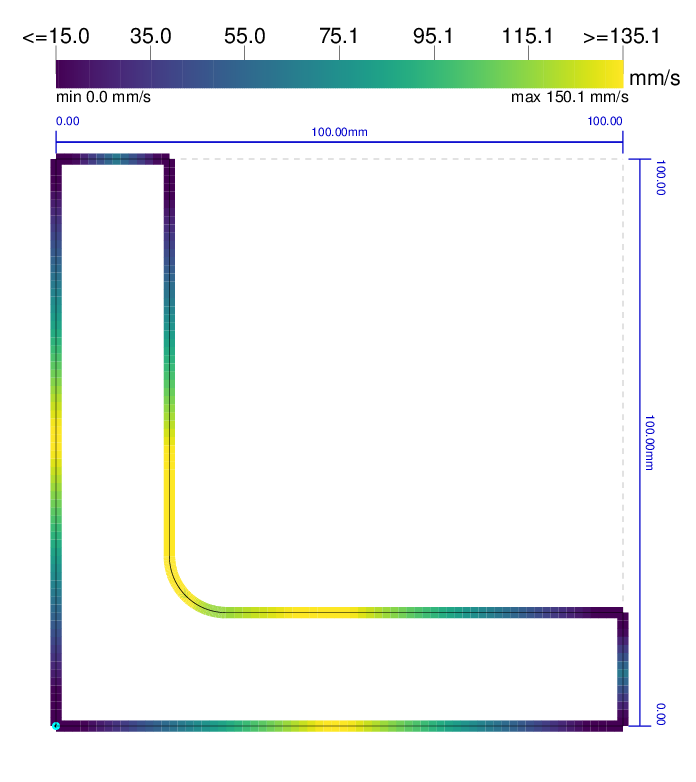
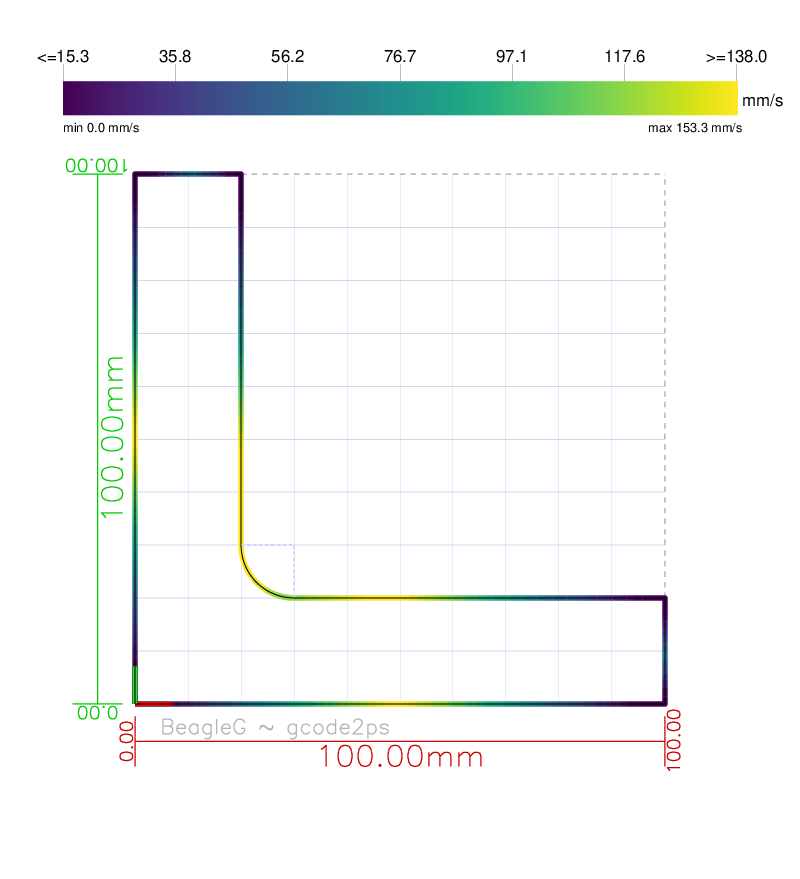
Add an option to show a grid in gcode2ps

diff --git a/src/gcode2ps.cc b/src/gcode2ps.cc
@@ -88,6 +88,7 @@ static constexpr char kGcodeMoveColor[] = "0 0 0";
 static constexpr char kGcodeRapidMoveColor[] = "0.7 0.7 0.7";
 static constexpr char kGcodeOriginMarkColor[] = "0.5 0.5 0.8";
 static constexpr char kGcodeOriginTextColor[] = "0 0 0";
+static constexpr char kGcodeGridColor[] = "0.7 0.7 0.9";
 
 // Machine movement rendering.
 static constexpr char kOutOfRangeColor[] = "1 0.5 0.5";
@@ -373,6 +374,26 @@ public:
     }
 
     fprintf(file_, "%s", kPSHeader);
+  }
+
+  static float start_grid(float min_value, float grid) {
+    const float offset = fmod(min_value, grid);
+    const float start = min_value - offset;
+    return start < min_value ? start + grid : start;
+  }
+
+  void DrawGrid(float d) {
+    fprintf(file_, "\n%% -- Grid\n");
+    fprintf(file_, "%s setrgbcolor 0 setlinewidth\n", kGcodeGridColor);
+    for (float x = start_grid(min_[AXIS_X], d) ; x < max_[AXIS_X]; x += d) {
+      fprintf(file_, "%.3f %.3f %.3f moveto3d %.3f %.3f %.3f lineto3d\n",
+              x, min_[AXIS_Y], min_[AXIS_Z], x, max_[AXIS_Y], min_[AXIS_Z]);
+    }
+    for (float y = start_grid(min_[AXIS_Y], d) ; y < max_[AXIS_Y]; y += d) {
+      fprintf(file_, "%.3f %.3f %.3f moveto3d %.3f %.3f %.3f lineto3d\n",
+              min_[AXIS_X], y, min_[AXIS_Z], max_[AXIS_X], y, min_[AXIS_Z]);
+    }
+    fprintf(file_, "stroke %% end grid\n");
   }
 
   void PrintModelFrame() {
@@ -904,6 +925,7 @@ static int usage(const char *progname, bool description = false) {
           "\t-e<distance>      : Eye distance in mm to show perspective.\n"
           "\t-a<frames>        : animation: create these number of frames "
           "showing rotation around vertical.\n"
+          "\t-g<grid>          : Show grid on XY plane. Optional with 'in' unit suffix (default: mm).\n"
           "[---- Rotation. Multiple can be applied in sequence ----]\n"
           "\t-R<roll>          : Roll: Rotate around axis pointing towards and through canvas\n"
           "\t-P<roll>          : Pitch: Rotate around horizontal axis.\n"
@@ -1009,9 +1031,10 @@ int main(int argc, char *argv[]) {
   float eye_distance = -1;
   int animation_frames = -1;
   bool quiet = false;
+  float grid = -1;
 
   int opt;
-  while ((opt = getopt(argc, argv, "o:c:T:DMt:srS:iR:P:Y:V:e:a:w:q")) != -1) {
+  while ((opt = getopt(argc, argv, "o:c:T:DMt:srS:iR:P:Y:V:e:a:w:qg:")) != -1) {
     switch (opt) {
     case 'o':
       out_filename = optarg;
@@ -1022,6 +1045,10 @@ int main(int argc, char *argv[]) {
       break;
     case 't':
       threshold_angle = (float)atof(optarg);
+      break;
+    case 'g':
+      grid = (float)atof(optarg);
+      if (strstr(optarg, "in") != nullptr) grid *= 25.4;
       break;
     case 'c':
       config_file = strdup(optarg);
@@ -1154,6 +1181,7 @@ int main(int argc, char *argv[]) {
   }
 
   gcode_printer.PrintModelFrame();
+  if (grid > 0) gcode_printer.DrawGrid(grid);
   if (show_dimensions) gcode_printer.ShowMesaureLines();
 
   if (config_file && show_machine_path) {

diff --git a/Development.md b/Development.md
@@ -76,6 +76,7 @@ Options:
         -c <config>       : BeagleG machine config.
         -T <tool-diameter>: Tool diameter in mm.
         -t <threshold-angle> : Threshold angle for accleration opt.
+        -q                : Quiet.
         -s                : Visualize movement speeds.
         -D                : Don't show dimensions.
         -M                : Don't show machine path, only GCode path.
@@ -84,6 +85,7 @@ Options:
         -w<width>         : Width in point (no unit) or mm (if appended)
         -e<distance>      : Eye distance in mm to show perspective.
         -a<frames>        : animation: create these number of frames showing rotation around vertical.
+        -g<grid>          : Show grid on XY plane. Optional with 'in' unit suffix (default: mm).
 [---- Rotation. Multiple can be applied in sequence ----]
         -R<roll>          : Roll: Rotate around axis pointing towards and through canvas
         -P<roll>          : Pitch: Rotate around horizontal axis.
@@ -106,21 +108,26 @@ $ src/gcode2ps -w800 -o /tmp/hello.ps -c machine.config -s somegcode.gcode
 gs -q -dBATCH -dNOPAUSE -sDEVICE=png16m -dGraphicsAlphaBits=4 -dTextAlphaBits=4 -dEPSCrop -sOutputFile=/tmp/hello.ps.png /tmp/hello.ps
 ```
 
-<img src="./img/sample-gcode2ps.png" width="200"/><img src="./img/sample-gcode2ps-2.png" width="200"/>
+Depending on the `G20` or `G21` setting in the gcode file, the measurement units
+are displayed in imperial or metric. The `-g` option allows to underlay a
+grid in the X/Y plane, the second example uses `-g 10mm` to show a grid with an
+10mm raster.
+
+<img src="./img/sample-gcode2ps-2.png" width="200"/><img src="./img/sample-gcode2ps.png" width="200"/>
 
 If you don't give a machine-configuration (`-c`) or give the `-M` option, only
-the gcode path is displayed (note that helper lines such as the radius
-indication of the `G3` call or the spline control-point vectors in the
-second example are shown in dotted lightblue; you can switch
-that off with `-i`). Rapid moves (`G0`) are light-gray, regular moves (`G1`)
-black:
+the gcode path is displayed.
+Rapid moves (`G0`) are light-gray, regular moves (`G1`) black.
+Helper lines such as the radius indication of the `G3` call or the spline
+control-point vectors in the second example are shown in dotted lightblue
+(you can switch that off with `-i`).
 
 <img src="./img/sample-gcode2ps-gcode.png" width="280"/><img src="./img/sample-gcode2ps-gcode-1.png" width="280"/>
 
 By default, the output shows a top view of the X/Y axis, but you can
 choose a view with `-V` or choose rotation. In this example, the same 3D path
 shown with `-Vtop` (which is also the default) vs. `-Visometric`
-(you can abbreviate these views, e.g. `-Vt` and `-Vi` would work as well).
+(you can abbreviate these views, e.g. `-Vt` and `-Viso` would work as well).
 
 <img src="./img/sample-gcode2ps-topview.png" width="220"/><img src="./img/sample-gcode2ps-isometric.png" width="220"/>
 
